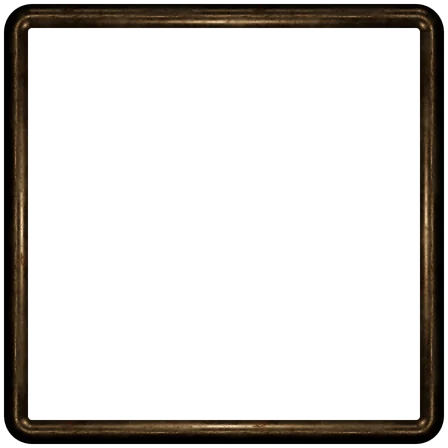
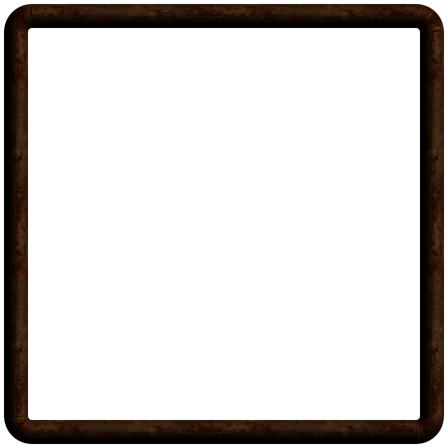
The hideout: matte, rusted pipe lit from the lamp; no cage or padlock
The pipe and its fittings are now Metal022 (rust over steel), rough and
barely metallic. Every piece is lit by one warm directional light from the
upper right, where the backdrop's lamp hangs, so the rim and the corners
agree. The gun cage's mesh and the padlock are gone; clamps hold the pipe
on the right.

Changed region(s): [[0.0312, 0.0, 1.0, 0.9688]]

diff --git a/scripts/edge-studio/themes/hunter-dark.js b/scripts/edge-studio/themes/hunter-dark.js
@@ -1,33 +1,36 @@
 /*
   Hunter, the hideout: the cell's ops base in a basement. The frame is a run
   of old steel pipe, bending round each corner, held to the wall by clamps
-  that bleed rust. On the left a valve with its handwheel; down the right the
-  welded mesh of a gun cage, padlocked at the foot; an ammo can and spent
-  shotgun shells in the bottom left. Lit by the bare bulb overhead. Like the
-  others, the long pieces keep to the side gutters; along the edges only
-  clamps, which end before the content starts.
-  Material (ambientCG, CC0): Metal021, for the pipe, its fittings and the
-  ammo can's worn paint.
+  that bleed rust. On the left a valve with its handwheel; an ammo can and
+  spent shotgun shells along the bottom. Matte and rusted through, lit only
+  by the den's lamp, which hangs to the upper right of the page, so every
+  piece takes its light from the same side. Like the others, the long pieces
+  keep to the side gutters; along the edges only clamps, which end before
+  the content starts.
+  Materials (ambientCG, CC0): Metal022 (rusted steel: the pipe and its
+  fittings), Metal021 (the ammo can's worn paint).
 */
 import * as THREE from 'three';
-import { lights, pbr, random, RIM_SIZE, RIM_WIDTH } from '../studio.js';
+import { pbr, random, RIM_SIZE, RIM_WIDTH } from '../studio.js';
 
-const steel = () => pbr('Metal021', { tint: '#8d847a', roughness: 0.75, metalness: 0.55, normalScale: 1.2, tile: 96 });
+const steel = () => pbr('Metal022', { tint: '#9a8d82', roughness: 0.95, metalness: 0.1, normalScale: 1.4, tile: 96 });
 // Fittings: the same steel, a little darker and finer.
-const iron = () => pbr('Metal021', { tint: '#a39a90', roughness: 0.65, metalness: 0.5, normalScale: 1, tile: 40 });
+const iron = () => pbr('Metal022', { tint: '#8a7d72', roughness: 0.95, metalness: 0.1, normalScale: 1.2, tile: 40 });
 // The ammo can: plain olive paint, worn by the steel's roughness.
 const olive = () => pbr('Metal021', { color: '#3c4228', map: null, roughness: 0.85, metalness: 0.15, normalScale: 0.8, tile: 60 });
 
-const LIT = {
-  colour: '#ffd09a',
-  intensity: 600,
-  fill: ['#2a3c52', '#120d09'],
-  fillIntensity: 1.5,
-  front: 1.2,
-  top: { colour: '#ffd8a8', intensity: 1.1 },
-};
+/*
+  The den's lamp hangs to the upper right of the page, well away from any
+  frame, so its light arrives as one warm direction for every piece (a
+  directional light, so the rim and the corners agree), with only a little
+  cold spill from the room behind.
+*/
+function lamp(scene) {
+  const bulb = new THREE.DirectionalLight('#ffc98c', 3.6);
+  bulb.position.set(0.62, 0.55, 0.56);
+  scene.add(bulb, new THREE.HemisphereLight('#2a3440', '#120d09', 1));
+}
 
-const GUTTER = 32;
 // The pipe's centre line, from the outer edge, and its radius.
 const EDGE = RIM_WIDTH * 0.5;
 const PIPE = 6;
@@ -54,7 +57,7 @@ async function pipeRim(scene) {
     m.rotation.z = a;
     scene.add(m);
   }
-  lights(scene, { centre: [S / 2, S / 2, 70], ...LIT });
+  lamp(scene);
 }
 
 // A hex bolt head, facing the viewer.
@@ -122,7 +125,7 @@ function valve(scene, metal, x, y) {
   stem.rotation.x = Math.PI / 2;
   stem.position.set(x, y, PIPE + 4);
   scene.add(stem);
-  const paint = new THREE.MeshStandardMaterial({ color: '#6e1f17', roughness: 0.6, metalness: 0.3 });
+  const paint = new THREE.MeshStandardMaterial({ color: '#5e2117', roughness: 0.9, metalness: 0.05 });
   const wheel = new THREE.Mesh(new THREE.TorusGeometry(7, 1.2, 12, 40), paint);
   wheel.position.set(x, y, PIPE + 7);
   scene.add(wheel);
@@ -136,48 +139,6 @@ function valve(scene, metal, x, y) {
   hub.rotation.x = Math.PI / 2;
   hub.position.set(x, y, PIPE + 7.4);
   scene.add(hub);
-}
-
-/*
-  Welded wire mesh, as on a gun cage: a grid of wires in a flat-bar frame,
-  from (x0, y0) to (x1, y1). It sits in front of the pipe, which shows through.
-*/
-function mesh(scene, metal, { x0, y0, x1, y1, pitch = 5.5 }) {
-  const wire = new THREE.MeshStandardMaterial({ color: '#5d5853', metalness: 0.7, roughness: 0.55 });
-  const w = Math.abs(x1 - x0), h = Math.abs(y1 - y0), xm = (x0 + x1) / 2, ym = (y0 + y1) / 2;
-  for (let x = Math.min(x0, x1) + pitch / 2; x < Math.max(x0, x1); x += pitch) {
-    const m = new THREE.Mesh(new THREE.CylinderGeometry(0.42, 0.42, h, 6), wire);
-    m.position.set(x, ym, PIPE + 2.6);
-    scene.add(m);
-  }
-  for (let y = Math.min(y0, y1) + pitch / 2; y < Math.max(y0, y1); y += pitch) {
-    const m = new THREE.Mesh(new THREE.CylinderGeometry(0.42, 0.42, w, 6), wire);
-    m.rotation.z = Math.PI / 2;
-    m.position.set(xm, y, PIPE + 2);
-    scene.add(m);
-  }
-  // The frame: flat bar round the edge.
-  for (const [cx, cy, bw, bh] of [[xm, y0, w + 2.4, 2.4], [xm, y1, w + 2.4, 2.4], [x0, ym, 2.4, h + 2.4], [x1, ym, 2.4, h + 2.4]]) {
-    const b = new THREE.Mesh(new THREE.BoxGeometry(bw, bh, 1.4), metal([bw, bh]));
-    b.position.set(cx, cy, PIPE + 3.4);
-    scene.add(b);
-  }
-}
-
-// A padlock hanging from the cage at (x, y): steel shackle, brass body.
-function padlock(scene, x, y) {
-  const steelMat = new THREE.MeshStandardMaterial({ color: '#b9b4ab', metalness: 1, roughness: 0.35 });
-  const brass = new THREE.MeshStandardMaterial({ color: '#a8823f', metalness: 1, roughness: 0.4 });
-  const shackle = new THREE.Mesh(new THREE.TorusGeometry(2.4, 0.6, 10, 24, Math.PI), steelMat);
-  shackle.position.set(x, y - 2, PIPE + 5);
-  scene.add(shackle);
-  const body = new THREE.Mesh(new THREE.BoxGeometry(7, 6.5, 2.6), brass);
-  body.position.set(x, y - 5.2, PIPE + 5);
-  body.rotation.z = 0.08;
-  scene.add(body);
-  const hole = new THREE.Mesh(new THREE.CircleGeometry(0.7, 12), new THREE.MeshBasicMaterial({ color: '#1a120a' }));
-  hole.position.set(x + 0.1, y - 6, PIPE + 6.35);
-  scene.add(hole);
 }
 
 // An ammo can standing on the bottom pipe: olive steel, its lid and latch.
@@ -226,10 +187,8 @@ function corner({ down, right, width, height, seed, kind }) {
       flange(scene, metal, at(44), y(EDGE), false);
       valve(scene, metal, at(EDGE + 1), y(78));
       clamp(scene, metal, at(EDGE), y(136), true);
-    } else if (kind === 'cage') {
-      // The cage's mesh down the side, over the pipe and the padding, clear of the content.
-      mesh(scene, metal, { x0: at(1.5), y0: y(EDGE + 10), x1: at(GUTTER - 2), y1: y(down ? 150 : 104) });
-      if (!down) padlock(scene, at(GUTTER - 2), y(64));
+    } else if (kind === 'clamps') {
+      clamp(scene, metal, at(EDGE), y(down ? 92 : 70), true);
     } else {
       ammoCan(scene, paint, metal, at(30), y(EDGE + 3));
       clamp(scene, metal, at(EDGE), y(96), true);
@@ -240,12 +199,11 @@ function corner({ down, right, width, height, seed, kind }) {
       if (kind === 'can') shell(scene, { x: at(64), y: y(EDGE + 3.5), angle: (right ? 1 : -1) * (Math.PI / 2 - 0.15), rnd });
     }
     // A clamp along the edge past the corner, with its rust.
-    if (kind === 'cage') {
+    if (kind === 'clamps') {
       clamp(scene, metal, at(58), y(EDGE));
       if (down) scene.add(streak(at(58), y(EDGE + PIPE), 10 + rnd() * 5, rnd));
     }
-    const inwards = right ? -150 : width + 150;
-    lights(scene, { ...LIT, centre: [inwards, down ? height - 420 : 420, 160], intensity: LIT.intensity * 5 });
+    lamp(scene);
   };
 }
 
@@ -261,7 +219,7 @@ function fringe({ down, width, height, seed }) {
       // Rust runs down the wall, so only from the top pipe.
       if (down) scene.add(streak(at, edge - PIPE, 12, random(seed * 7)));
     }
-    lights(scene, { ...LIT, centre: [width / 2, down ? height - 420 : 420, 160], intensity: LIT.intensity * 5 });
+    lamp(scene);
   };
 }
 
@@ -272,10 +230,10 @@ const hideout = {
   pieces: {
     rim: { width: 224, height: 224, build: pipeRim },
     'top-left': { ...TOP, build: corner({ down: true, right: false, ...TOP, seed: 51, kind: 'valve' }) },
-    'top-right': { ...TOP, build: corner({ down: true, right: true, ...TOP, seed: 52, kind: 'cage' }) },
+    'top-right': { ...TOP, build: corner({ down: true, right: true, ...TOP, seed: 52, kind: 'clamps' }) },
     top: { width: 192, height: 40, build: fringe({ down: true, width: 192, height: 40, seed: 53 }) },
     'bottom-left': { ...BOTTOM, build: corner({ down: false, right: false, ...BOTTOM, seed: 61, kind: 'can' }) },
-    'bottom-right': { ...BOTTOM, build: corner({ down: false, right: true, ...BOTTOM, seed: 62, kind: 'cage' }) },
+    'bottom-right': { ...BOTTOM, build: corner({ down: false, right: true, ...BOTTOM, seed: 62, kind: 'clamps' }) },
     bottom: { width: 192, height: 36, build: fringe({ down: false, width: 192, height: 36, seed: 63 }) },
   },
 };

diff --git a/CLAUDE.md b/CLAUDE.md
@@ -167,7 +167,7 @@ Elysium is a cross-game vault for Vampire: The Masquerade, Werewolf: The Apocaly
 | `/dashboard/*` | Redirects to `/vault/vampire/*` (next.config.mjs) |
 
 - **Themes = game × mode.** `app/vault/[game]/layout.tsx` sets `data-game` on a wrapper; the mode is `<html data-theme>` (toggle). `app/games.css` holds per-game tokens, fonts (Werewolf: Cinzel; Hunter: Special Elite + Courier Prime), the `.frame` borders (gothic, neon, paper & tape; Werewolf's two and the hideout are rendered, see "Rendered frames") and ambient keyframes. Vampire uses the root tokens. Hunter's light mode ("the inn") is a true light theme and is being replaced by a city concept (roadmap); the others stay dark.
-- **Rendered frames (edge studio, in progress):** `scripts/edge-studio/` renders theme frames once with three.js in headless Chrome (`node scripts/edge-studio/render.mts <skin>`; needs Google Chrome) from CC0 ambientCG materials (downloaded into the git-ignored `.cache/`) into `public/frames/<skin>/` (`rim.webp`, a 9-slice border; corner pieces `top-left`/`top-right`/`bottom-left`/`bottom-right` whose long ornaments keep to the 32px side gutter (border + padding); `top`/`bottom`, a short tiled fringe that ends before the content). Every theme shares one scene (`studio.js`: the same rim profile and width, the light at the panel's middle) and supplies its material, light colour and ornaments (`themes/<skin>.js`). In `app/games.css` one block of rules draws them (`--frame-rim`, `--frame-top`, `--frame-bottom`); ornament strips only on tall frames (`.frame-tall`, the chronicle's `.skin-frame`). Shared building blocks in `studio.js`: `rim` (with `band` for a second material along its inner edge, e.g. moss), `mound`, `spike`, `limb` (a tapering gnarled branch/root), `atlasLeaves` (leaves cut from a CC0 leaf atlas), `bracket` (bracket fungus) and `mushroom`. So far: the cave (`werewolf-light`: Rock020, stalactites and stalagmites) the hideout (`hunter-dark`, a basement ops base: the rim is a steel pipe (Metal021) bending round each corner, built in the theme rather than by `rim`; a valve with its handwheel and a flange, the welded mesh of a gun cage down the right side, padlocked, an ammo can, spent shotgun shells, strap clamps with rust) and Moonlit forest (`werewolf-dark`: Bark014 grown over with Moss002, branches and roots thick with ivy from LeafSet017, bracket fungi and mushrooms).
+- **Rendered frames (edge studio, in progress):** `scripts/edge-studio/` renders theme frames once with three.js in headless Chrome (`node scripts/edge-studio/render.mts <skin>`; needs Google Chrome) from CC0 ambientCG materials (downloaded into the git-ignored `.cache/`) into `public/frames/<skin>/` (`rim.webp`, a 9-slice border; corner pieces `top-left`/`top-right`/`bottom-left`/`bottom-right` whose long ornaments keep to the 32px side gutter (border + padding); `top`/`bottom`, a short tiled fringe that ends before the content). Every theme shares one scene (`studio.js`: the same rim profile and width, the light at the panel's middle) and supplies its material, light colour and ornaments (`themes/<skin>.js`). In `app/games.css` one block of rules draws them (`--frame-rim`, `--frame-top`, `--frame-bottom`); ornament strips only on tall frames (`.frame-tall`, the chronicle's `.skin-frame`). Shared building blocks in `studio.js`: `rim` (with `band` for a second material along its inner edge, e.g. moss), `mound`, `spike`, `limb` (a tapering gnarled branch/root), `atlasLeaves` (leaves cut from a CC0 leaf atlas), `bracket` (bracket fungus) and `mushroom`. So far: the cave (`werewolf-light`: Rock020, stalactites and stalagmites) the hideout (`hunter-dark`, a basement ops base: the rim is a matte, rusted steel pipe (Metal022) bending round each corner, built in the theme rather than by `rim`; a valve with its handwheel and a flange, an ammo can, spent shotgun shells, strap clamps with rust; lit by one directional light from the upper right, where the backdrop's lamp hangs, instead of the shared rig) and Moonlit forest (`werewolf-dark`: Bark014 grown over with Moss002, branches and roots thick with ivy from LeafSet017, bracket fungi and mushrooms).
 - **Ambience:** `app/ui/game/Ambience.tsx`, one backdrop + looping element per game and mode. The hideout's backdrop is the cell's basement den from the asset pack (`public/art/htr-den.webp`, Locations64, mirrored) in a box that keeps its proportions, placed so its lamp hangs at the top right, clear of the headings; overlays sit on the art: the lamp's glow and light cone (`bulb-buzz`), a cigarette's smoke curling up into it (`smoke-rise` through the SVG filter `#smoke-curl`).
 - **Navigation:** `app/ui/navbar.tsx` → `app/ui/SiteIsland.tsx` (site pages: links on the right, phone menu, section dots; no theme switch) and `app/ui/dashboard/sidenav.tsx` (dashboards: game switcher, nav items, Chronicles, Themes, Settings, Friends, Log out); the theme frame comes from `.frame`.
 - **Game config:** `app/lib/games.ts` (names, logos, nouns, mode names). Factions: `app/lib/factions.ts`. Sheets per game: `app/ui/sheets/game-sheets.tsx` (sections in `app/ui/sheets/sections/`).
